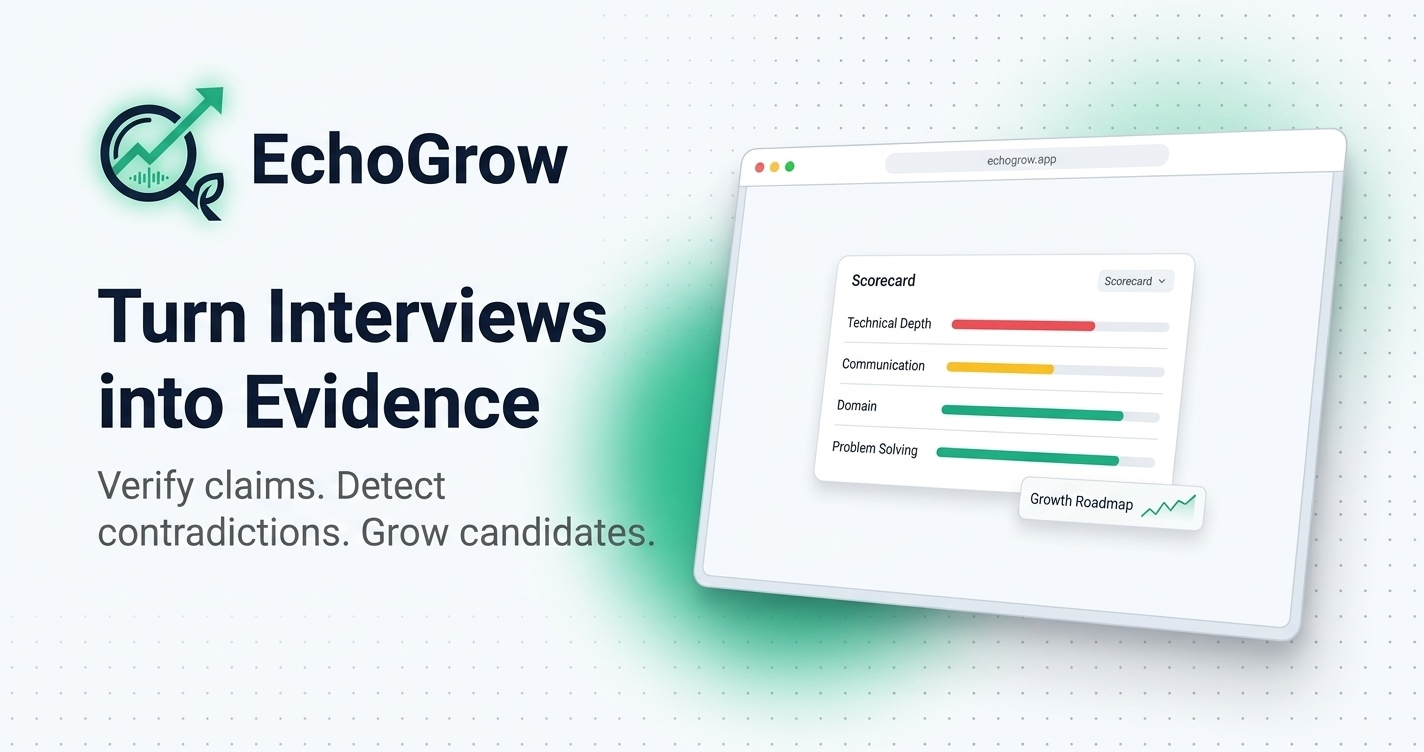
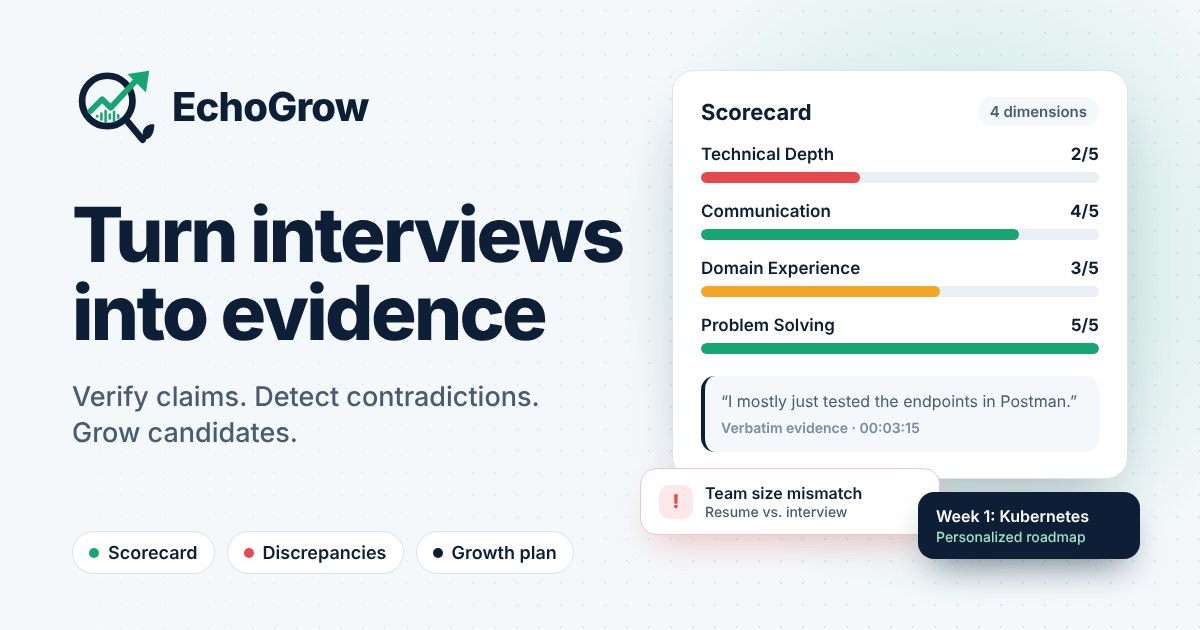
solve OG-image issue

diff --git a/apps/web/index.html b/apps/web/index.html
@@ -6,41 +6,40 @@
     <meta name="viewport" content="width=device-width, initial-scale=1.0" />
     <meta name="theme-color" content="#0e1e37" />
 
-    <!-- Primary Meta Tags -->
-    <title>EchoGrow — Turn an interview into evidence</title>
-    <meta name="title" content="EchoGrow — Turn an interview into evidence" />
+    <!-- Primary -->
+    <title>EchoGrow — Turn interviews into evidence</title>
+    <meta name="title" content="EchoGrow — Turn interviews into evidence" />
     <meta
       name="description"
-      content="EchoGrow turns interviews into evidence: scores four dimensions with verbatim quotes, flags contradictions, and drafts a growth plan."
+      content="EchoGrow scores four dimensions with verbatim quotes, flags contradictions between resume and interview, and drafts a personalized growth plan."
     />
+    <link rel="canonical" href="https://echogrow-ai.vercel.app/" />
 
-    <!-- Open Graph / Facebook / Telegram / WhatsApp / LinkedIn -->
+    <!-- Open Graph (Facebook, WhatsApp, Telegram, LinkedIn) -->
     <meta property="og:type" content="website" />
-    <meta property="og:url" content="https://echogrow-app.vercel.app/" />
-    <meta property="og:title" content="EchoGrow — Turn an interview into evidence" />
+    <meta property="og:site_name" content="EchoGrow" />
+    <meta property="og:url" content="https://echogrow-ai.vercel.app/" />
+    <meta property="og:title" content="EchoGrow — Turn interviews into evidence" />
     <meta
       property="og:description"
-      content="EchoGrow turns interviews into evidence: scores four dimensions with verbatim quotes, flags contradictions, and drafts a growth plan."
+      content="Verify claims. Detect contradictions. Grow candidates."
     />
-    <meta property="og:image" content="https://echogrow-app.vercel.app/og-image.jpg" />
+    <meta property="og:image" content="https://echogrow-ai.vercel.app/og-image.jpg?v=2" />
+    <meta property="og:image:secure_url" content="https://echogrow-ai.vercel.app/og-image.jpg?v=2" />
+    <meta property="og:image:type" content="image/jpeg" />
     <meta property="og:image:width" content="1200" />
     <meta property="og:image:height" content="630" />
-    <meta property="og:image:alt" content="EchoGrow — Interview verification and growth platform" />
-    <meta property="og:site_name" content="EchoGrow" />
+    <meta property="og:image:alt" content="EchoGrow scorecard with four scored dimensions, a flagged contradiction and a weekly growth roadmap" />
 
-    <!-- Twitter -->
+    <!-- Twitter / X -->
     <meta name="twitter:card" content="summary_large_image" />
-    <meta name="twitter:url" content="https://echogrow-app.vercel.app/" />
-    <meta name="twitter:title" content="EchoGrow — Turn an interview into evidence" />
+    <meta name="twitter:title" content="EchoGrow — Turn interviews into evidence" />
     <meta
       name="twitter:description"
-      content="EchoGrow turns interviews into evidence: scores four dimensions with verbatim quotes, flags contradictions, and drafts a growth plan."
+      content="Verify claims. Detect contradictions. Grow candidates."
     />
-    <meta name="twitter:image" content="https://echogrow-app.vercel.app/og-image.jpg" />
-    <meta name="twitter:image:alt" content="EchoGrow — Interview verification and growth platform" />
-
-    <!-- Optional: Canonical URL -->
-    <link rel="canonical" href="https://echogrow-app.vercel.app/" />
+    <meta name="twitter:image" content="https://echogrow-ai.vercel.app/og-image.jpg?v=2" />
+    <meta name="twitter:image:alt" content="EchoGrow scorecard with four scored dimensions, a flagged contradiction and a weekly growth roadmap" />
   </head>
   <body>
     <div id="root"></div>
